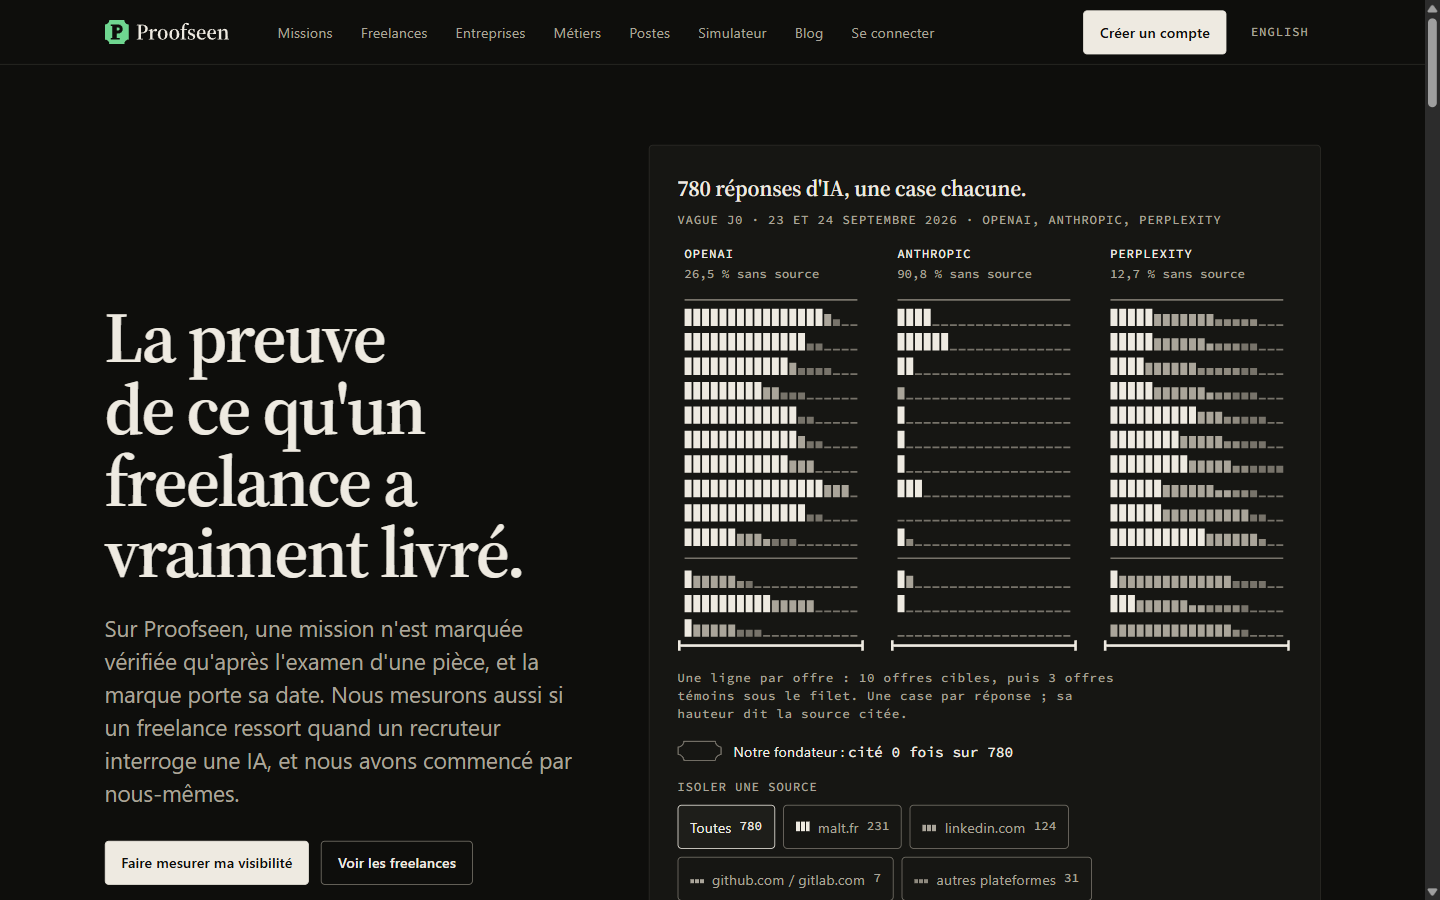
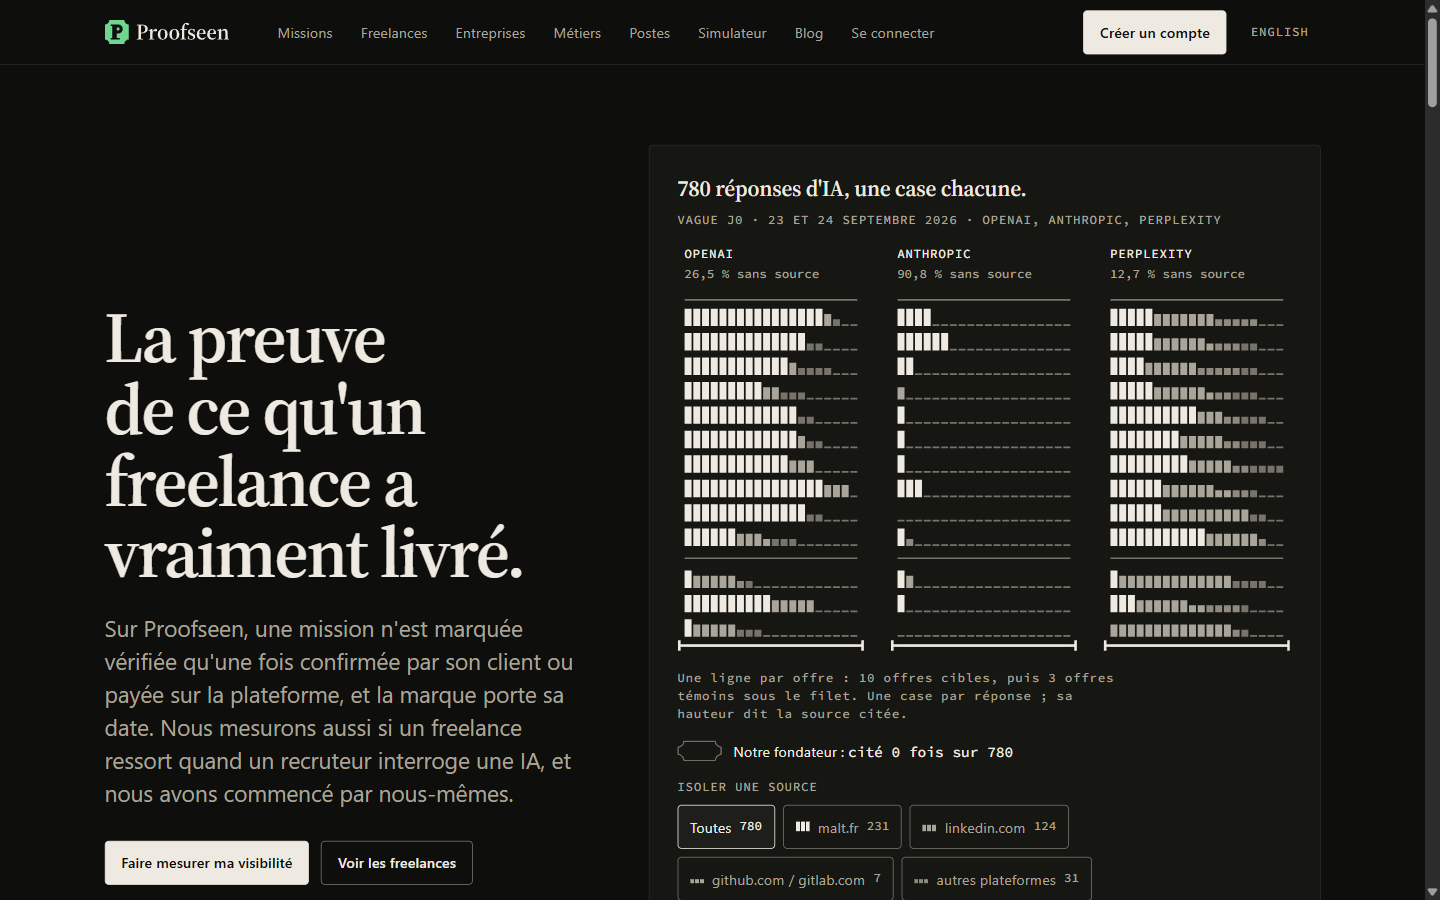
docs(war-room): Shogun verdict, final captures and numbers, Kensa's second pass

Changed region(s): [[0.0625, 0.7156, 0.4062, 0.9022]]

diff --git a/.war-room/design/KENSA_REVIEW.md b/.war-room/design/KENSA_REVIEW.md
@@ -191,3 +191,116 @@ blanche sans marque, et le lien « Comment nous vérifions » ramène à l'ancie
 9. M6 conteneur unique aligné sur l'en-tête.
 10. M7 tirets cadratins de l'espace connecté.
 11. Mineurs m1 à m12, en commençant par m1 (pied unique) et m6 (espaces insécables).
+
+---
+
+# Seconde passe (2026-10-21, branche `origin/sprint/design-legends-polish`, head 86cf707)
+
+> Même méthode : HTML brut par curl sur 37 adresses (dont 11 adresses inconnues), Playwright Chromium 1208 à 1440 et
+> 375 (sombre, JS, sans JS, mouvement réduit), images figées de M1 et M2, transition M3 aller et retour, CSS servies
+> relues, code extrait de la branche. Scripts et captures : scratchpad `kensa/` (`h2/`, `shots2/`, `crops2/`).
+> Non compté, à la demande du coordinateur : la page `/fr/commande` affiche toujours 49 € et 490 € (noindex, liée de
+> nulle part depuis que la ligne du pied a disparu). Elle reste à trancher par le founder.
+
+## État des défauts de la première passe
+
+| Défaut | État | Preuve |
+|---|---|---|
+| B1 débordement du relevé à 375 | corrigé | `/fr`, `/en`, `/fr/freelances` et 4 autres, tous les `<details>` ouverts : `scrollWidth = 375` pour 375, 0 élément hors cadre. Le tableau défile dans sa boîte (`div.rg-scroll role="region" tabindex="0" aria-label="Lire le relevé en tableau"`, 343 sur 418 px). m9 corrigé du même coup. |
+| B2 404 brutes du hub | corrigé | 11 adresses inconnues (profil, mission, entreprise, article, métier, poste, ville, publication, en fr et en) : 404, 23 807 o, `lang` de la route, viewport, `noindex`, en-tête et pied de marque, « Aucune marque frappée ici », recherche GET vers `/<lang>/missions` (champ `q` lu par `job-index.ts:154`). Capture `kensa/shots2/_fr_profils_inconnu-375-dark.png`. |
+| B3 pages héritées | corrigé | `/methode/`, `/en/method/`, `/contact/`, `/en/contact/`, `/n/ayoub-hammoudi/`, `/p/FR-7H2XK/` (et versions en) : 0 occurrence de `#070b14` ou `#3fcf9c`, 0 tiret cadratin (titre et texte), en-tête, pied et typographie de la marque, bord gauche à 112. La méthode dit maintenant les deux voies réelles (confirmation du client, paiement sur Proofseen), le nom du client « publié que s'il l'a autorisé », et « Contrôlée sur pièce : pas encore proposé ». |
+| M1 « Vous » du simulateur | corrigé | fr : « Notre fondateur : absent de cette réponse », « Notre fondateur apparaît 0 fois sur 200 » ; en : « Our founder: not in this answer ». |
+| M2 parts sans effectif | corrigé | « malt.fr 39 % 908 citations sur 2 328 », « linkedin.com 26,5 % 618 », « github.com 2,9 % 67 », avec « Vague J0, 23 et 24 septembre 2026 ». Recalculé : 908/2 328 = 39,0 %, 618/2 328 = 26,5 %, 67/2 328 = 2,9 % ; somme des domaines de `apps/web/src/data/j0-citations.ts` (1 757) + autres (571) = 2 328, conforme à `TEAM_MEMORY.md:343`. |
+| M3 TypeScript caché sur la carte | corrigé | carte de `/fr/freelances` : TypeScript, Node.js, React, Kafka, PostgreSQL, Docker, +2 (ordre déclaré). |
+| M4 tri par nombre de faits vérifiés | corrigé | plus aucune trace de `verified_facts`, `faits_verifies`, `verifiedFactsOrder` hors commentaire dans `apps/web/src` et `packages/db/src`. |
+| M5 vert hors preuve | corrigé | CSS servies (4 feuilles React + 37 pages du hub) : `--ps-proof` n'est lu que par `.proof`, `.seal`, `.stamp`, `.sq`, `.proofline`, `.pin`, `.pcard .verified`, `.fc-proof`, `.k-proof`, `.specimen-*`, `.rg-you`, `.tag-proof` et les images clés de la frappe. Plus de carré vert de légende sur `/fr/missions`, `/fr/entreprises`, ni sur l'annuaire (seule reste « déclaré par le freelance »). |
+| M6 bords gauches | corrigé | 1440 : en-tête, `main`, H1 et pied à x=112 sur les 21 pages mesurées qui portent l'en-tête (`/offline` est autonome et centrée) ; seule exception voulue, le H1 de la fiche à x=256 à cause de la photo, le premier bloc restant à 112. |
+| M7 tirets cadratins de l'espace connecté | corrigé dans `apps/web` | 0 ligne non commentée avec U+2014 dans `apps/web/src`. Il en reste ailleurs, voir N5. |
+| m1 pied unique | corrigé | même pied sur React et hub ; ligne « page Commander » et ancienne phrase retirées. |
+| m5 `lang` de la fiche en anglais | corrigé | titre et résumé en `lang="fr"` sur `/en/profils/fr-rvvua`. |
+| m6 espaces insécables | partiel | hub : 0 espace ordinaire avant « : ; ? ! » sur 24 pages fr ; vitrine React `/fr` : 23 espaces ordinaires contre 2 U+202F. |
+| m7 cibles | corrigé | lien « CSV » du blog n'est plus sous 24 px ; « 6 sources » passe à 67x27. |
+| m4 opacité nulle et `CountUp` dans l'espace connecté | non corrigé | `workspace.css:156-157,173,203-204,237`, `app/[lang]/app/page.tsx:49`. |
+
+Moments signatures revérifiés : M1 (3 `rg-descend`, règle qui descend, aucune case ne change), M2 (`pc-trace` 640 ms,
+`pc-strike` 400 ms à 500 ms, `pc-ink` 240 ms à 780 ms, images figées à 0, 560 et 900 ms, capture
+`kensa/shots2/m2-strip.png`), M3 (`pagereveal.viewTransition` vrai à 1440 et 375, aller et retour, faux sous mouvement
+réduit). Sans JS et mouvement réduit : 0 animation, fil tracé, cartouche posé, règle posée. Hub : 0 script hors
+JSON-LD, 0 opacité nulle, `visibility:hidden` ou `font-size:0` sur les 37 pages. Aucun débordement à 375 sur 24 pages.
+
+## Défauts nouveaux ou restants après les correctifs
+
+### Majeurs (vérité : la décision du Shogun n'est pas appliquée partout)
+
+- **N1. Le spécimen anglais se contredit.** `/en`, section The proof : « Proof: client confirmation » puis le
+  cartouche « Verified on 12 October 2026 · invoice ». Source : `apps/web/src/i18n/en.ts:154`
+  (`stamp: "Verified on 12 October 2026 · invoice"`), alors que `fr.ts:158` dit « confirmée par le client ».
+  Correctif : `"Verified on 12 October 2026 · confirmed by the client"`, et un test qui compare la fin du cartouche
+  à la ligne « Proof » dans les deux langues.
+- **N2. L'annuaire promet encore une vérification sur pièce, dans les deux langues.** `/fr/freelances`, encart
+  « Comment un profil arrive ici » : « Ses pièces sont vérifiées une à une par un tiers, puis datées. » ;
+  `/en/freelances` : « Their documents are verified one by one by a third party, then dated. » Sources :
+  `packages/hub/src/profile-directory.ts:50` et `:79`. C'est faux depuis la décision du Shogun (aucune mission n'est
+  vérifiée sur pièce aujourd'hui) et c'est la page où un recruteur arrive en premier.
+  Correctif : « Ses missions sont vérifiées une à une, par la confirmation de son client ou par un paiement sur
+  Proofseen, puis datées. » / « Their missions are verified one by one, by their client's confirmation or a payment
+  on Proofseen, then dated. »
+- **N3. La carte anglaise parle de document.** `/en/freelances`, carte FR-RVVUA : « No verified document yet. »,
+  alors que la carte française dit « Pas encore de fait vérifié. ». Source : `packages/hub/src/profile-card.ts:98`.
+  Correctif : `"No verified fact yet."`
+
+### Mineurs
+
+- **N4.** Fiche profil, fr et en : « Nous montrons la méthode de vérification, jamais le document. » /
+  « We show the verification method, never the document. » (`packages/hub/src/profile-proofs.ts:62` et `:111`). Ce
+  n'est pas faux, mais cela laisse entendre qu'un document existe. Proposition : « Chaque ligne dit comment elle a été
+  vérifiée ; aucun document n'est publié. »
+- **N5.** Tirets cadratins encore présents dans des textes que les utilisateurs reçoivent, hors interface web :
+  rapport d'audit client `packages/deliverable/src/report.ts` (12 lignes, dont 77 et 90 : « Votre visibilité dans les
+  réponses des IA [U+2014] ... »), `plan.ts:152,165,179`, `document.ts:100,155` ; courriels
+  `packages/notify/src/confirmation-request.ts:68`, `invitation.ts:70`, `digest.ts:52`, `templates.ts:258` ; valeur
+  vide `packages/db/src/contract-view.ts:74`. Hors de la porte de l'interface, mais à purger avant le premier rapport
+  ou courriel envoyé. Les autres occurrences (`profiles/experiment.ts`, `audit.ts`, `stats/threearm.ts`,
+  `core/protocol.ts`, `extract/judge.ts`, `profiles/verify.ts`) sont des messages internes.
+- **N6.** Espaces avant la ponctuation double : la vitrine React garde 23 espaces ordinaires (« Une ligne par offre :
+  », « Notre fondateur : cité », « Preuve : confirmation »...) quand toutes les pages du hub sont passées en U+202F.
+  Appliquer la même fonction aux dictionnaires `fr.ts` au rendu.
+- **N7.** Pages statiques `/n/ayoub-hammoudi/` et `/p/FR-7H2XK/` : « Disponible » sans date de confirmation, figé au
+  « Mis à jour le 2026-09-24 » (format ISO, alors que tout le site écrit « 20 octobre 2026 ») ; la règle des 30 jours
+  de la marketplace ne s'y applique pas. **À trancher par le founder** : ces deux pages, et la fiche `FR-RVVUA`,
+  portent le même titre, le même résumé et les mêmes compétences que la page nominative ; le profil pseudonyme se
+  ré-identifie donc en une recherche, alors que `/contact/` affirme « L'identité réelle n'est jamais publiée ».
+  C'est le profil du founder lui-même, donc pas une fuite, mais la démonstration contredit la promesse.
+- **N8.** Titre des 404 du hub : « Cette page n'existe pas. · Proofseen » (point final suivi du séparateur) ; à 375,
+  le pied laisse un « · » orphelin en fin de ligne avant « Conditions d'utilisation ».
+- **N9.** Spécimen : « Preuve : confirmation du client » puis « Vérifiée le 12 octobre 2026 · confirmée par le
+  client » répète la même chose, et les deux blocs passent sur deux lignes à 1440. Proposition : « Preuve : client
+  (PME) » à gauche, cartouche inchangé.
+- **N10.** `/contact/` répète deux fois la même phrase « L'identité réelle n'est jamais publiée... » (corps et note
+  de pied).
+- Reste de la première passe : m4 (opacité nulle et `CountUp` dans l'espace connecté), m2 (deux catégories du registre
+  distinguées par le ton seul), m3 (poids RSC de la vitrine : 189 388 o), m11, m12 non revérifiés comme corrigés.
+
+## Non vérifié en seconde passe
+
+Lighthouse (non relancé) ; Safari et Firefox ; thème clair page par page ; parcours clavier complet et lecteur
+d'écran ; espace connecté en rendu (Clerk sur l'aperçu) ; M2 du hub sur une vraie mission vérifiée (aucune en base).
+
+## Verdict de la seconde passe : FAIL
+
+Les trois bloquants et les sept majeurs de la première passe sont corrigés et prouvés, et l'œuvre tient enfin debout
+sur téléphone, sans JS et dans une seule marque. Mais le serment de vérité casse encore à trois endroits publics
+(annuaire fr et en, spécimen en anglais, carte en anglais), qui promettent une vérification sur document que le
+produit ne fait pas : trois chaînes à corriger (`en.ts:154`, `profile-directory.ts:50,79`, `profile-card.ts:98`),
+puis la porte passe.
+
+## Correctifs, dans l'ordre
+
+1. N2 `packages/hub/src/profile-directory.ts:50,79`.
+2. N1 `apps/web/src/i18n/en.ts:154`.
+3. N3 `packages/hub/src/profile-card.ts:98`.
+4. Un test de vocabulaire sur tout le HTML servi qui refuse « pièce », « document », « invoice », « facture » hors de
+   la page de méthode et de la liste « pas encore proposé ».
+5. N4, N6, N8, N9, N10 (textes et typographie).
+6. N5 avant tout envoi de rapport ou de courriel.
+7. N7 : décision du founder sur les pages statiques et la pseudonymie.

diff --git a/.war-room/design/VERDICT.md b/.war-room/design/VERDICT.md
@@ -1,0 +1,42 @@
+# Verdict du Shogun : refonte « Legends League »
+
+> 2026-10-21. Branche `sprint/design-legends-polish` sur `main` (lots a à g déjà fusionnés, PR #72 à #77). Rien de
+> déployé : la production attend le GO DEPLOY du founder.
+
+## Le verdict
+
+**La porte passe pour la surface publique, pas encore pour tout le produit.** La marque, le relevé des 780 réponses et
+la frappe du poinçon tiennent, et surtout le site dit maintenant la vérité sur ce qui vérifie une mission ; mais
+l'espace connecté n'a reçu que la marque et le nettoyage du vert, pas sa refonte, et l'accueil touche le seuil de
+performance sur un passage sur trois.
+
+## Les sept questions de la porte
+
+1. **Un moment d'arrêt ?** Oui : le relevé, où chaque réponse d'IA est une case et où « cité 0 fois sur 780 » se lit
+   d'un coup d'œil ; la frappe du poinçon sur un fait vérifié ; le passage au guichet entre la carte et la fiche.
+2. **Chaque image a-t-elle un sens ?** Oui, et c'est pour ça que les captures d'une interface retirée ont quitté la
+   vitrine. Il n'y a plus une image décorative : le relevé est fait des données, le poinçon marque un fait.
+3. **Un défaut qui casse la magie ?** Kensa en a trouvé 3 bloquants et 7 majeurs en première passe, tous corrigés et
+   vérifiés en seconde passe ; puis 3 phrases qui promettaient une vérification sur document, corrigées et tenues
+   par un test de vocabulaire. Le plus grave n'était pas visuel : le site promettait un contrôle « sur pièce » que le
+   code ne fait pas. Il dit maintenant : confirmée par le client, ou payée sur Proofseen.
+4. **Mobile ?** Aucun débordement à 375 px, y compris tableau ouvert ; menu qui montre qu'il défile ; cibles de
+   44 px.
+5. **Sans JS ?** Tout le hub est du HTML serveur, aucun script hors JSON-LD, rien de caché en attendant une
+   animation ; l'accueil a tout son texte dans le HTML.
+6. **Budgets ?** Perf mobile 0,95 à 1 sur toutes les pages mesurées, accessibilité et SEO à 1, CLS ≤ 0,001. Les
+   bonnes pratiques (0,96 et 0,93) ne tombent que sur l'adresse de l'aperçu : à remesurer en production.
+7. **Vérité ?** Oui : chaque chiffre porte son n et sa date, aucun prix public sur les pages liées, aucun classement de
+   personnes (le tri par nombre de faits vérifiés est retiré), le vert ne marque qu'un fait vérifié.
+
+## Ce qui reste, et à qui
+
+| Point | À qui | Pourquoi |
+|---|---|---|
+| Page « Commander » (49 € et 490 €, noindex, liée de nulle part) | founder | page de paiement : la garder, la rediriger ou la retirer est une décision de paiement |
+| Pages `/n/ayoub-hammoudi/` et `/p/FR-7H2XK/` : la pseudonyme reprend le texte de la nominative, et « Disponible » est figé au 24 septembre | founder | c'est son profil ; décider s'il garde la page nominative |
+| Tirets cadratins dans le rapport d'audit client et quatre courriels | tâche séparée proposée | hors du site, à purger avant tout envoi |
+| Espaces fines insécables sur la vitrine React (23 occurrences) | prochaine passe | le hub est fait |
+| Espace connecté : révélations depuis une opacité nulle, `CountUp` | prochaine passe | hors du périmètre public de la refonte |
+| Ordre déclaré des compétences garanti en base (colonne `position`) | sprint produit | migration de schéma |
+| Lighthouse en production | après GO DEPLOY | l'aperçu fausse les bonnes pratiques |

diff --git a/.war-room/design/BEFORE_AFTER.md b/.war-room/design/BEFORE_AFTER.md
@@ -8,7 +8,7 @@
 
 | Page | Avant | Après | Ce qui a changé |
 |---|---|---|---|
-| Accueil, bureau | ![](before/desktop-01-accueil.png) | ![](after/desktop-01-accueil.png) | Vitrine refaite en bureau de garantie. Le relevé des 780 réponses est un SVG serveur de 2,5 Ko (avant : 214 Ko de données envoyées au navigateur). Plus de prix public. Page indexable, avec son JSON-LD. |
+| Accueil, bureau | ![](before/desktop-01-accueil.png) | ![](after/desktop-01-accueil.png) | Vitrine refaite en bureau de garantie. Elle dit ce qui vérifie une mission aujourd'hui : la confirmation du client ou le paiement sur Proofseen. Le relevé des 780 réponses est un SVG serveur de 2,5 Ko (avant : 214 Ko de données envoyées au navigateur). Plus de prix public. Page indexable, avec son JSON-LD. |
 | Accueil, téléphone | ![](before/mobile-01-accueil.png) | ![](after/mobile-01-accueil.png) | Même ordre de lecture ; menu sur sa propre largeur, qui s'estompe là où il défile. |
 | Annuaire des freelances | ![](before/desktop-02-annuaire-freelances.png) | ![](after/desktop-02-annuaire-freelances.png) | Devient le registre public : légende vérifié / déclaré, une seule carte profil pour le hub et l'appli, ordre par date de mise à jour, jamais par score. |
 | Annuaire, téléphone | ![](before/mobile-02-annuaire-freelances.png) | ![](after/mobile-02-annuaire-freelances.png) | Filtres dans un tiroir, cibles de 44 px. |
@@ -23,13 +23,13 @@
 
 ## Les chiffres
 
-Lighthouse mobile, 3 passages par page, mesuré sur le VPS contre l'aperçu (`MAMORI_REPORT.md`). Aucun Lighthouse n'a
+Lighthouse mobile, 3 passages par page, mesuré sur le VPS contre l'aperçu : accueil et profil sur l'arbre final de la branche polish, les autres pages par Mamori avant les correctifs de la vague 7 (`MAMORI_REPORT.md`). L'accueil touche le seuil de 0,95 sur un passage sur trois. Aucun Lighthouse n'a
 été mesuré avant la refonte : on compare donc les poids, mesurés des deux côtés.
 
 | Page | Perf | Accessibilité | Bonnes pratiques | SEO | LCP | CLS |
 |---|---|---|---|---|---|---|
-| Accueil | 0,96 à 0,98 | 1 | 0,96 (aperçu) | 1 | 2,3 à 2,7 s | 0 |
-| Profil | 0,99 à 1 | 1 | 0,93 (aperçu) | 1 | 1,3 s | 0 |
+| Accueil | 0,95 à 0,98 | 1 | 0,96 (aperçu) | 1 | 2,3 à 2,8 s | 0 |
+| Profil | 0,96 à 0,98 | 1 | 0,93 (aperçu) | 1 | 1,3 s | 0,0004 |
 | Freelances | 0,99 | 1 | 1 | 1 | 1,4 s | 0,001 |
 | Missions | 0,99 | 1 | 1 | 1 | 1,4 à 1,5 s | 0,0003 |
 | Baromètre | 1 | 1 | 1 | 1 | 1,3 s | 0 |

diff --git a/.war-room/sprints/DESIGN_HANDOFF.md b/.war-room/sprints/DESIGN_HANDOFF.md
@@ -18,8 +18,9 @@
 | Lot c, annuaire et carte unique, M3 | fusionné, PR #77 | `after-c/` |
 | Vague 7, Mamori | fait, tous budgets PASS sauf BP sur l'aperçu (127.0.0.1) | `.war-room/design/MAMORI_REPORT.md` |
 | Vague 7, Kensa | FAIL : 3 bloquants, 7 majeurs | `.war-room/design/KENSA_REVIEW.md` |
-| Correctifs vague 7 | en cours | branche `sprint/design-legends-polish` ; deux Tetsu sur `-polish-a` (React) et `-polish-b` (hub, `packages/profiles`) |
-| BEFORE_AFTER | fait, à rafraîchir après les correctifs | `.war-room/design/BEFORE_AFTER.md`, captures `after/` |
+| Correctifs vague 7 | faits, seconde passe de Kensa puis 3 phrases de vérité corrigées | branche `sprint/design-legends-polish` (avec `-polish-a` et `-polish-b` fusionnées) |
+| Verdict du Shogun | porte passée pour la surface publique, restes listés | `.war-room/design/VERDICT.md` |
+| BEFORE_AFTER | fait, captures et chiffres de l'arbre final | `.war-room/design/BEFORE_AFTER.md`, captures `after/` |
 
 ## Déjà corrigé sur la branche polish
 
@@ -42,7 +43,6 @@ l'ancienne interface retirées de la vitrine, JSON-LD de l'accueil et de l'index
 
 ## Suite immédiate
 
-1. Fusionner `-polish-a` et `-polish-b` dans `sprint/design-legends-polish`, gate complet sur le VPS, aperçu.
-2. Relancer Kensa sur les bloquants et majeurs, puis verdict du Shogun.
-3. Rafraîchir `after/` et `BEFORE_AFTER.md`, PR et fusion de la branche polish, résumé au founder.
-4. Après GO DEPLOY seulement : remesurer Lighthouse en production (bonnes pratiques attendues à 1).
+1. Fusionner la PR de `sprint/design-legends-polish` (gate vert : 271 fichiers, 2 613 tests).
+2. Attendre les décisions du founder listées dans `VERDICT.md` (page Commander, page nominative) et son GO DEPLOY.
+3. Après GO DEPLOY : déployer `main`, remesurer Lighthouse en production, vérifier sitemaps, llms.txt et JSON-LD en prod.
